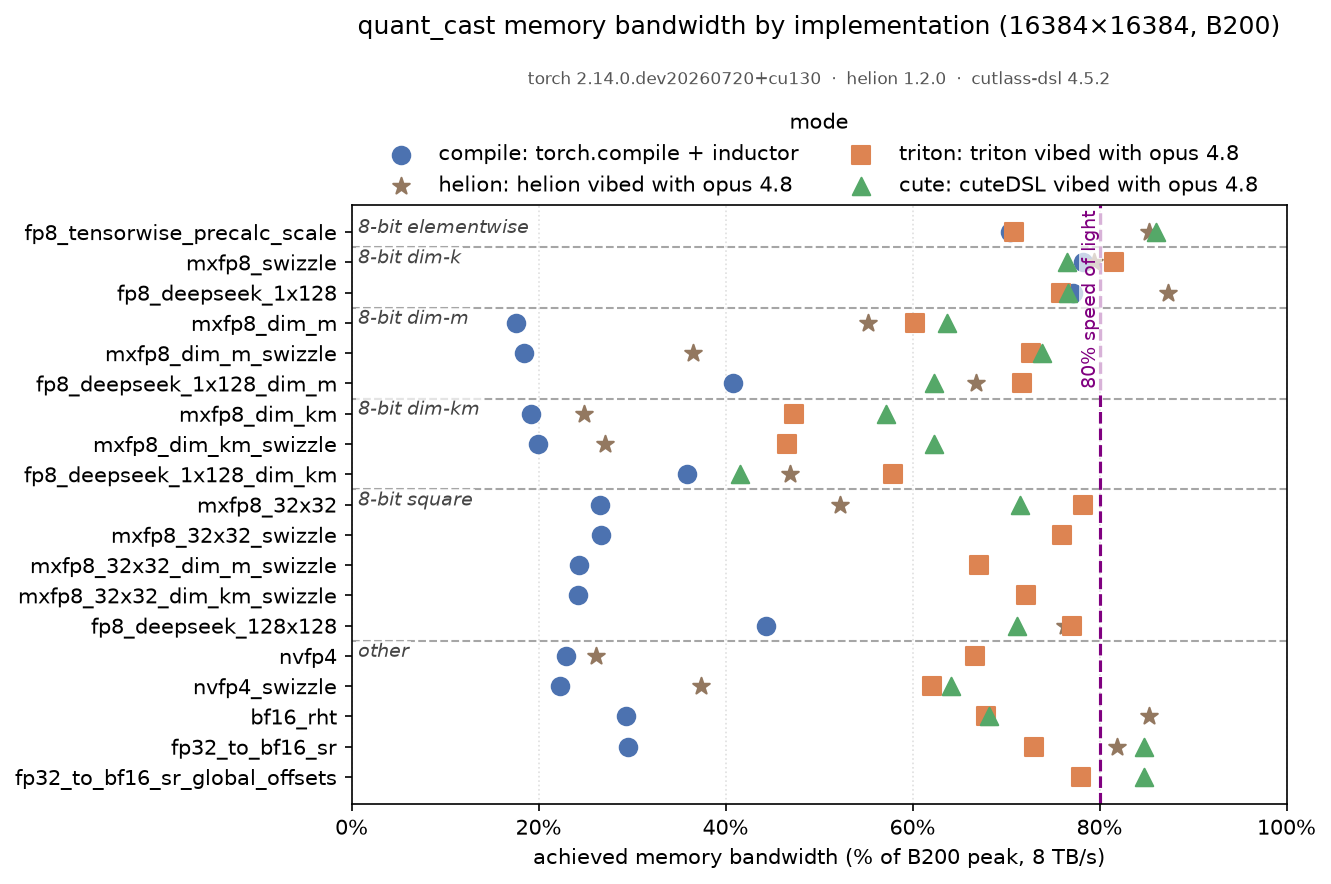
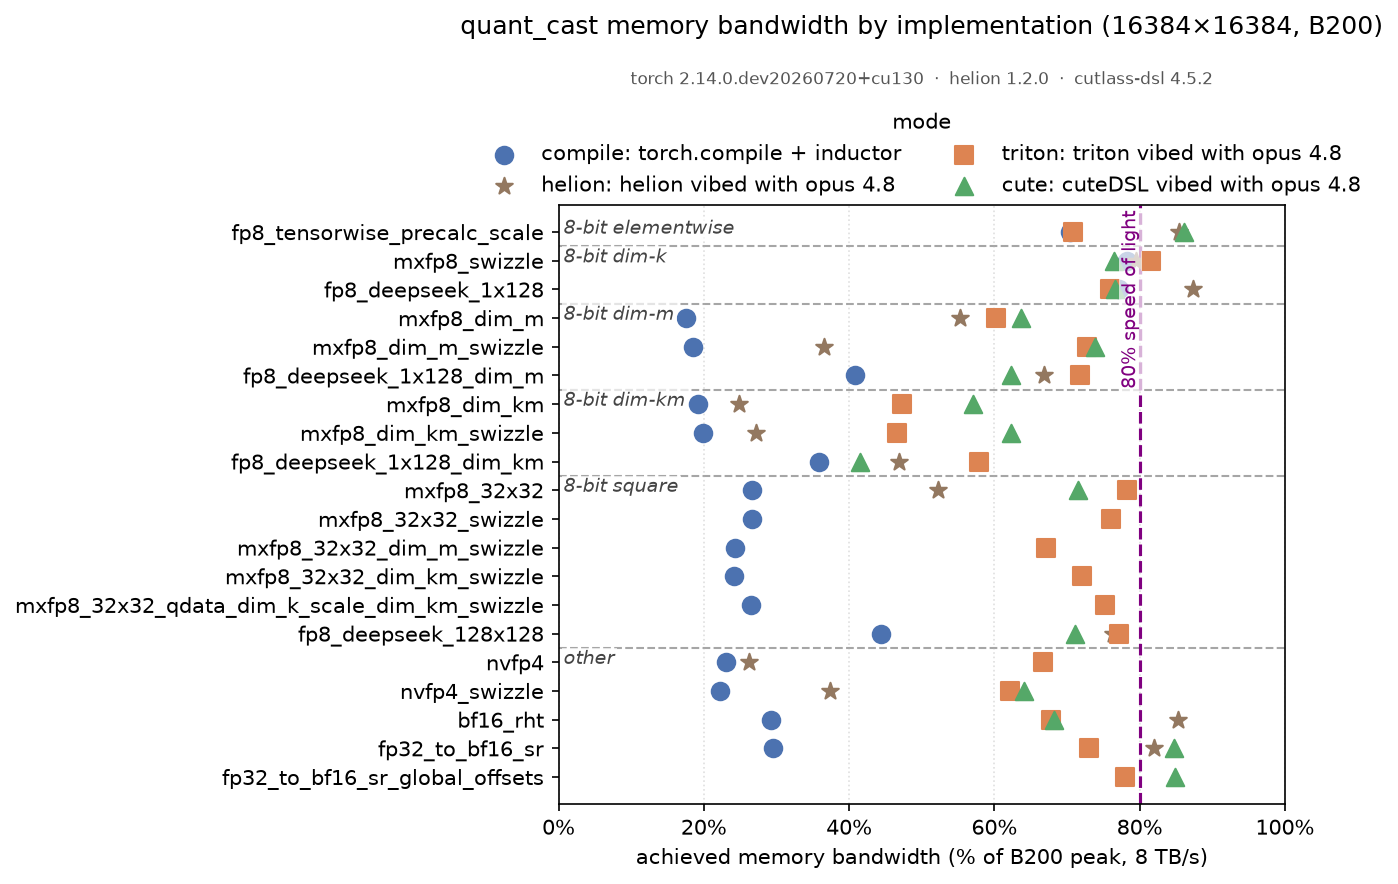
mxfp8 32x32 skip qdata
Summary:

Test Plan:

diff --git a/quant_cast_bench/quant_cast_triton/recipes.py b/quant_cast_bench/quant_cast_triton/recipes.py
@@ -26,6 +26,7 @@ from quant_cast_bench.quant_cast_gold.recipes import (
     Mxfp832x32DimKMSwizzleGold,
     Mxfp832x32DimMSwizzleGold,
     Mxfp832x32Gold,
+    Mxfp832x32QdataDimKScaleDimKMSwizzleGold,
     Mxfp832x32SwizzleGold,
     Mxfp8DimKmGold,
     Mxfp8DimKmSwizzleGold,
@@ -1242,6 +1243,96 @@ MXFP8_32X32_DIM_KM_SWIZZLE = QuantCastTritonRecipe.from_gold(
 
 
 # ---------------------------------------------------------------------------
+# mxfp8 32x32 like _mxfp8_32x32_dim_km_swizzle_kernel, but WITHOUT the dim-M qdata store: on
+# Blackwell torch._scaled_mm takes the second operand row-major, so only the dim-K qdata (M,N) is
+# needed and the dim-M frame contributes only its swizzled scale. Same square-block quantization
+# (one (RB, CB) scale per 32x32 block, one shared qdata) -> three outputs: qk (M,N), sk (M, N//32)
+# swizzled, sm (N, M//32) swizzled. Dropping the transposed-qdata write is the whole point (less
+# store traffic). Mirrors mxfp8_32x32_qdata_dim_k_scale_dim_km_swizzle_f. Requires M%32==0, N%32==0.
+# Both swizzle grids allocate with torch.empty: the grid spans the PADDED extents so every slot is
+# written (real e8m0 bytes or literal 0).
+# ---------------------------------------------------------------------------
+@triton.autotune(configs=_DIM_KM_CONFIGS, key=["M", "N"])
+@triton.jit
+def _mxfp8_32x32_qdata_dim_k_scale_dim_km_swizzle_kernel(
+    x_ptr, yk_ptr, sk_ptr, sm_ptr, M, N,
+    sxm, sxn, sykm, sykn, NCB_K, NCB_M,
+    BN: tl.constexpr, RB: tl.constexpr,
+):
+    BM: tl.constexpr = RB * 32   # rows in the tile
+    CB: tl.constexpr = BN // 32  # 32-col blocks in the tile
+    pid_m = tl.program_id(0)     # row-block group (BM rows), over Mpad
+    pid_n = tl.program_id(1)     # col group (BN cols), over Npad
+    offs_m = pid_m * BM + tl.arange(0, BM)
+    offs_n = pid_n * BN + tl.arange(0, BN)
+    m_real = offs_m < M
+    n_real = offs_n < N
+    x = tl.load(
+        x_ptr + offs_m[:, None] * sxm + offs_n[None, :] * sxn,
+        mask=m_real[:, None] & n_real[None, :], other=0.0,
+    ).to(tl.float32)  # (BM, BN); padded rows/cols read as 0
+    # one scale per 32x32 block: reshape (RB, 32, CB, 32) and reduce both within-block dims. M%32==0
+    # and N%32==0 -> each block is wholly real or wholly padded, so a real block's amax never mixes 0.
+    xr = tl.reshape(x, (RB, 32, CB, 32))
+    b = _amax_to_e8m0_tl(tl.max(tl.max(tl.abs(xr), axis=3), axis=1))  # (RB, CB) per block
+    rcp = _e8m0_to_reciprocal_fp32_tl(b)
+    q = tl.reshape((xr * rcp[:, None, :, None]).to(tl.float8e4nv), (BM, BN))  # dim-K qdata only
+    # dim-K store: qdata (M, N) as-is. No dim-M qdata store.
+    tl.store(yk_ptr + offs_m[:, None] * sykm + offs_n[None, :] * sykn, q,
+             mask=m_real[:, None] & n_real[None, :])
+    # swizzled sk store: scale (M, N//32), block scale expanded over its 32 rows -> (BM, CB). Pre-swizzle
+    # row = m (over M), col = 32-col-block (over N//32). Padded slots (m >= M or col-block >= N//32) -> 0.
+    b_exp_k = tl.reshape(tl.broadcast_to(b[:, None, :], (RB, 32, CB)), (BM, CB))
+    row_k = offs_m[:, None]                              # (BM, 1)
+    col_k = (pid_n * CB + tl.arange(0, CB))[None, :]     # (1, CB)
+    r128k = row_k % 128
+    flat_k = (((row_k // 128) * NCB_K + col_k // 4) * 32 + r128k % 32) * 16 + (r128k // 32 * 4 + col_k % 4)
+    real_k = m_real[:, None] & (col_k < (N // 32))
+    tl.store(sk_ptr + flat_k, tl.where(real_k, b_exp_k.to(tl.uint8), 0))
+    # swizzled sm store: scale (N, M//32) transposed, block scale expanded over its 32 cols -> (RB, BN).
+    # Pre-swizzle row = n (over N), col = 32-row-block (over M//32). Padded slots -> 0.
+    b_exp_m = tl.reshape(tl.broadcast_to(b[:, :, None], (RB, CB, 32)), (RB, BN))
+    row_m = offs_n[None, :]                              # (1, BN)
+    col_m = (pid_m * RB + tl.arange(0, RB))[:, None]     # (RB, 1)
+    r128m = row_m % 128
+    flat_m = (((row_m // 128) * NCB_M + col_m // 4) * 32 + r128m % 32) * 16 + (r128m // 32 * 4 + col_m % 4)
+    real_m = (offs_n[None, :] < N) & (col_m < (M // 32))
+    tl.store(sm_ptr + flat_m, tl.where(real_m, b_exp_m.to(tl.uint8), 0))
+
+
+def mxfp8_32x32_qdata_dim_k_scale_dim_km_swizzle_triton(x, **kwargs):
+    assert x.is_contiguous() and x.dim() == 2
+    M, N = x.shape
+    assert M % 32 == 0 and N % 32 == 0, \
+        "mxfp8_32x32_qdata_dim_k_scale_dim_km_swizzle kernel needs M%32==0 and N%32==0"
+    yk = torch.empty_like(x, dtype=torch.float8_e4m3fn)                    # (M, N)
+    # sk: (M, N//32) swizzled; sm: (N, M//32) swizzled. torch.empty (not zeros): the kernel writes
+    # every slot of both padded (nrb, ncb, 32, 16) grids itself (real e8m0 bytes or literal 0).
+    nrb_k = (M + 127) // 128
+    nrb_m = (N + 127) // 128
+    ncb_k = ((N // 32) + 3) // 4
+    ncb_m = ((M // 32) + 3) // 4
+    sk = torch.empty(nrb_k, ncb_k, 32, 16, dtype=torch.uint8, device=x.device)
+    sm = torch.empty(nrb_m, ncb_m, 32, 16, dtype=torch.uint8, device=x.device)
+    # grid spans the padded extents (multiples of 128, hence of every RB*32 and BN), so every swizzle
+    # slot is visited exactly once.
+    mpad = nrb_k * 128
+    npad = nrb_m * 128
+    grid = lambda meta: (triton.cdiv(mpad, meta["RB"] * 32), triton.cdiv(npad, meta["BN"]))  # noqa: E731
+    _mxfp8_32x32_qdata_dim_k_scale_dim_km_swizzle_kernel[grid](
+        x, yk, sk, sm, M, N,
+        x.stride(0), x.stride(1), yk.stride(0), yk.stride(1), ncb_k, ncb_m,
+    )
+    return yk, sk.view(torch.float8_e8m0fnu), sm.view(torch.float8_e8m0fnu)
+
+
+MXFP8_32X32_QDATA_DIM_K_SCALE_DIM_KM_SWIZZLE = QuantCastTritonRecipe.from_gold(
+    Mxfp832x32QdataDimKScaleDimKMSwizzleGold,
+    triton_fn=mxfp8_32x32_qdata_dim_k_scale_dim_km_swizzle_triton,
+)
+
+
+# ---------------------------------------------------------------------------
 # mxfp8 1x32 with the e8m0 scale written directly into the NVIDIA-swizzled 4D block grid
 # (nrb, ncb, 32, 16). Same quant as mxfp8; the scale for pre-swizzle position (row, col)
 # lands at flat offset ((br*ncb+bc)*32 + b)*16 + (a*4+c4), where br=row//128, r128=row%128,
@@ -1724,6 +1815,10 @@ ALL_RECIPES = [
     ("mxfp8_32x32_swizzle", MXFP8_32X32_SWIZZLE),
     ("mxfp8_32x32_dim_m_swizzle", MXFP8_32X32_DIM_M_SWIZZLE),
     ("mxfp8_32x32_dim_km_swizzle", MXFP8_32X32_DIM_KM_SWIZZLE),
+    (
+        "mxfp8_32x32_qdata_dim_k_scale_dim_km_swizzle",
+        MXFP8_32X32_QDATA_DIM_K_SCALE_DIM_KM_SWIZZLE,
+    ),
     ("fp8_deepseek_128x128", FP8_DEEPSEEK_128X128),
     # 8-bit rowwise/colwise
     ("fp8_rowwise", FP8_ROWWISE),

diff --git a/quant_cast_bench/quant_cast_gold/recipes.py b/quant_cast_bench/quant_cast_gold/recipes.py
@@ -884,6 +884,54 @@ Mxfp832x32DimKMSwizzleGold = QuantCastSingleKernelGold(
     perf_description="(32,32) block, one pass, t-contig, swizzle",
 )
 
+# ---------------------------------------------------------------------------
+# Golden recipe: same as Mxfp832x32DimKMSwizzleGold, but WITHOUT the dim-M qdata. On Blackwell
+# torch._scaled_mm accepts the second operand in row-major, so we only ever need the dim-K qdata
+# (M,N); the dim-M frame contributes only its swizzled scale. So this emits three outputs -- one
+# qdata (M,N) plus both swizzled scales (dim-K -> (M, N//32), dim-M -> (N, M//32)) -- saving the
+# transposed-qdata write of the full dim_km variant. The block is square so the single per-block
+# e8m0 scale is shared between the two frames.
+# ---------------------------------------------------------------------------
+def mxfp8_32x32_qdata_dim_k_scale_dim_km_swizzle_f(x, **kwargs):
+    """One pass over x with square 32x32 blocks: dim-K qdata + both swizzled scales (no dim-M
+    qdata). Returns (qk (M,N), sk_blocked, sm_blocked) where sk/sm are the 4D block grids
+    `(nrb, ncb, 32, 16)` of the block scale expanded to (M, N//32) / (N, M//32)."""
+    qdata, scale_e8m0 = mxfp8_32x32_f(x)  # (M, N), (M//32, N//32)
+    # dim-K frame: expand the per-block scale over its 32 rows -> (M, N//32).
+    sk = _to_blocked_4d(scale_e8m0.repeat_interleave(32, dim=0))
+    # dim-M frame: expand over its 32 columns -> (M//32, N), transpose to (N, M//32).
+    sm = _to_blocked_4d(scale_e8m0.repeat_interleave(32, dim=1).t().contiguous())
+    return qdata, sk, sm
+
+
+def _mxfp8_32x32_qdata_dim_k_scale_dim_km_swizzle_correctness(
+    inputs: Tuple[torch.Tensor, ...],
+    outputs: Tuple[torch.Tensor, torch.Tensor, torch.Tensor],
+) -> None:
+    """The dim-K qdata dequants back to `x` under both scales: directly with sk, and -- since the
+    block is square and the qdata is shared -- in the transposed frame with sm (then .t())."""
+    (x,) = inputs
+    qk, sk, sm = outputs
+    sqnr_k = _compute_error(x.float(), mxfp8_swizzle_dq_f(qk, sk).float())
+    sqnr_m = _compute_error(x.float(), mxfp8_swizzle_dq_f(qk.t().contiguous(), sm).t().float())
+    threshold = 15.0
+    assert sqnr_k > threshold, (
+        f"mxfp8_32x32_qdata_dim_k_scale_dim_km_swizzle (dim-k): "
+        f"sqnr={sqnr_k.item():.2f} dB below {threshold} dB"
+    )
+    assert sqnr_m > threshold, (
+        f"mxfp8_32x32_qdata_dim_k_scale_dim_km_swizzle (dim-m): "
+        f"sqnr={sqnr_m.item():.2f} dB below {threshold} dB"
+    )
+
+
+Mxfp832x32QdataDimKScaleDimKMSwizzleGold = QuantCastSingleKernelGold(
+    pt_ref_fn=mxfp8_32x32_qdata_dim_k_scale_dim_km_swizzle_f,
+    correctness_fn=_mxfp8_32x32_qdata_dim_k_scale_dim_km_swizzle_correctness,
+    example_input_fn=lambda M, K: (torch.randn(M, K, dtype=torch.bfloat16, device="cuda"),),
+    perf_description="(32,32) block, one pass, dim-k qdata + km scales, swizzle",
+)
+
 
 # ---------------------------------------------------------------------------
 # Golden recipe: mxfp8 with swizzled (NVIDIA 32x4x4 blocked) scale.
@@ -1636,6 +1684,10 @@ ALL_RECIPES = [
     ("mxfp8_32x32_swizzle", Mxfp832x32SwizzleGold),
     ("mxfp8_32x32_dim_m_swizzle", Mxfp832x32DimMSwizzleGold),
     ("mxfp8_32x32_dim_km_swizzle", Mxfp832x32DimKMSwizzleGold),
+    (
+        "mxfp8_32x32_qdata_dim_k_scale_dim_km_swizzle",
+        Mxfp832x32QdataDimKScaleDimKMSwizzleGold,
+    ),
     ("fp8_deepseek_128x128", Deepseek128x128Gold),
     # 8-bit rowwise/colwise
     ("fp8_rowwise", RowwiseFp8Gold),

diff --git a/benchmarks/plot_bench.py b/benchmarks/plot_bench.py
@@ -59,7 +59,7 @@ _GROUP_SIZES = [
     ("8-bit dim-k", 2),
     ("8-bit dim-m", 3),
     ("8-bit dim-km", 3),
-    ("8-bit square", 5),
+    ("8-bit square", 6),
     ("other", None),  # None = all remaining rows
 ]
 _HERE = os.path.dirname(os.path.abspath(__file__))

diff --git a/benchmarks/README.md b/benchmarks/README.md
@@ -43,6 +43,7 @@ mxfp8_32x32                      0.3789  2126.0       26.6%  (32,32) block
 mxfp8_32x32_swizzle              0.3817  2131.5       26.6%  (32,32) block, swizzle
 mxfp8_32x32_dim_m_swizzle        0.4190  1942.1       24.3%  (32,32) block, t-contig, swizzle
 mxfp8_32x32_dim_km_swizzle       0.5637  1934.6       24.2%  (32,32) block, one pass, t-contig, swizzle
+mxfp8_32x32_qdata_dim_k_scale_dim_km_swizzle  0.3871  2123.9       26.5%  (32,32) block, one pass, dim-k qdata + km scales, swizzle
 fp8_deepseek_128x128                   0.2269  3548.9       44.4%  (128,128) block
 fp8_rowwise                            0.1224  6580.4       82.3%  (1,-1) block
 fp8_colwise                            0.3928  2050.6       25.6%  (-1,1) block, t-contig
@@ -74,6 +75,7 @@ mxfp8_32x32                      0.1287  6260.6       78.3%  (32,32) block
 mxfp8_32x32_swizzle              0.1338  6081.9       76.0%  (32,32) block, swizzle
 mxfp8_32x32_dim_m_swizzle        0.1515  5372.5       67.2%  (32,32) block, t-contig, swizzle
 mxfp8_32x32_dim_km_swizzle       0.1890  5769.4       72.1%  (32,32) block, one pass, t-contig, swizzle
+mxfp8_32x32_qdata_dim_k_scale_dim_km_swizzle  0.1367  6015.9       75.2%  (32,32) block, one pass, dim-k qdata + km scales, swizzle
 fp8_deepseek_128x128                   0.1306  6166.1       77.1%  (128,128) block
 fp8_rowwise                            0.1291  6237.9       78.0%  (1,-1) block
 fp8_colwise                            0.2178  3698.1       46.2%  (-1,1) block, t-contig
